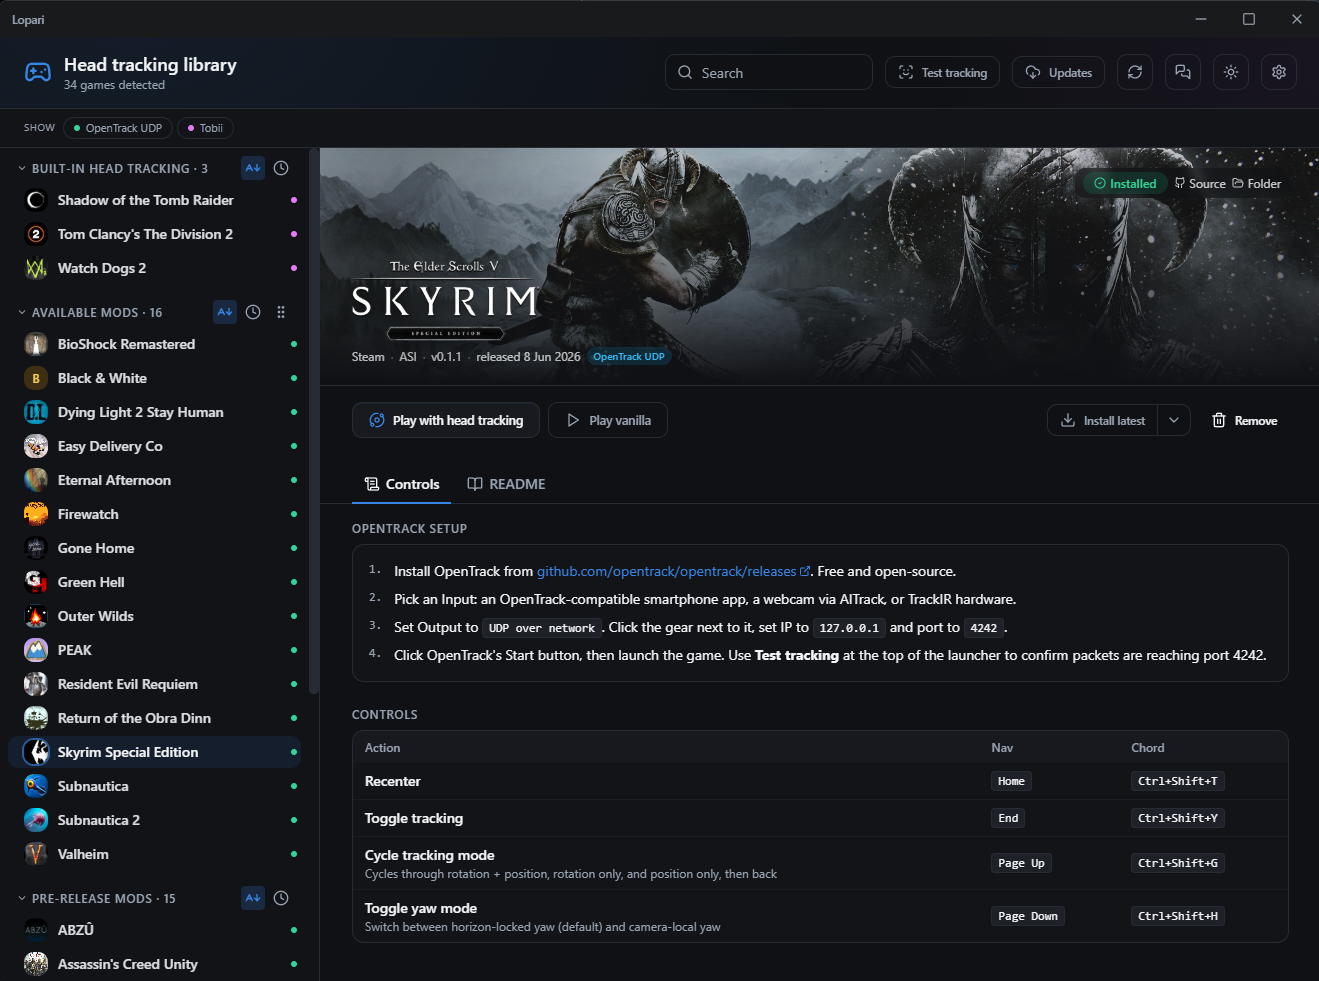
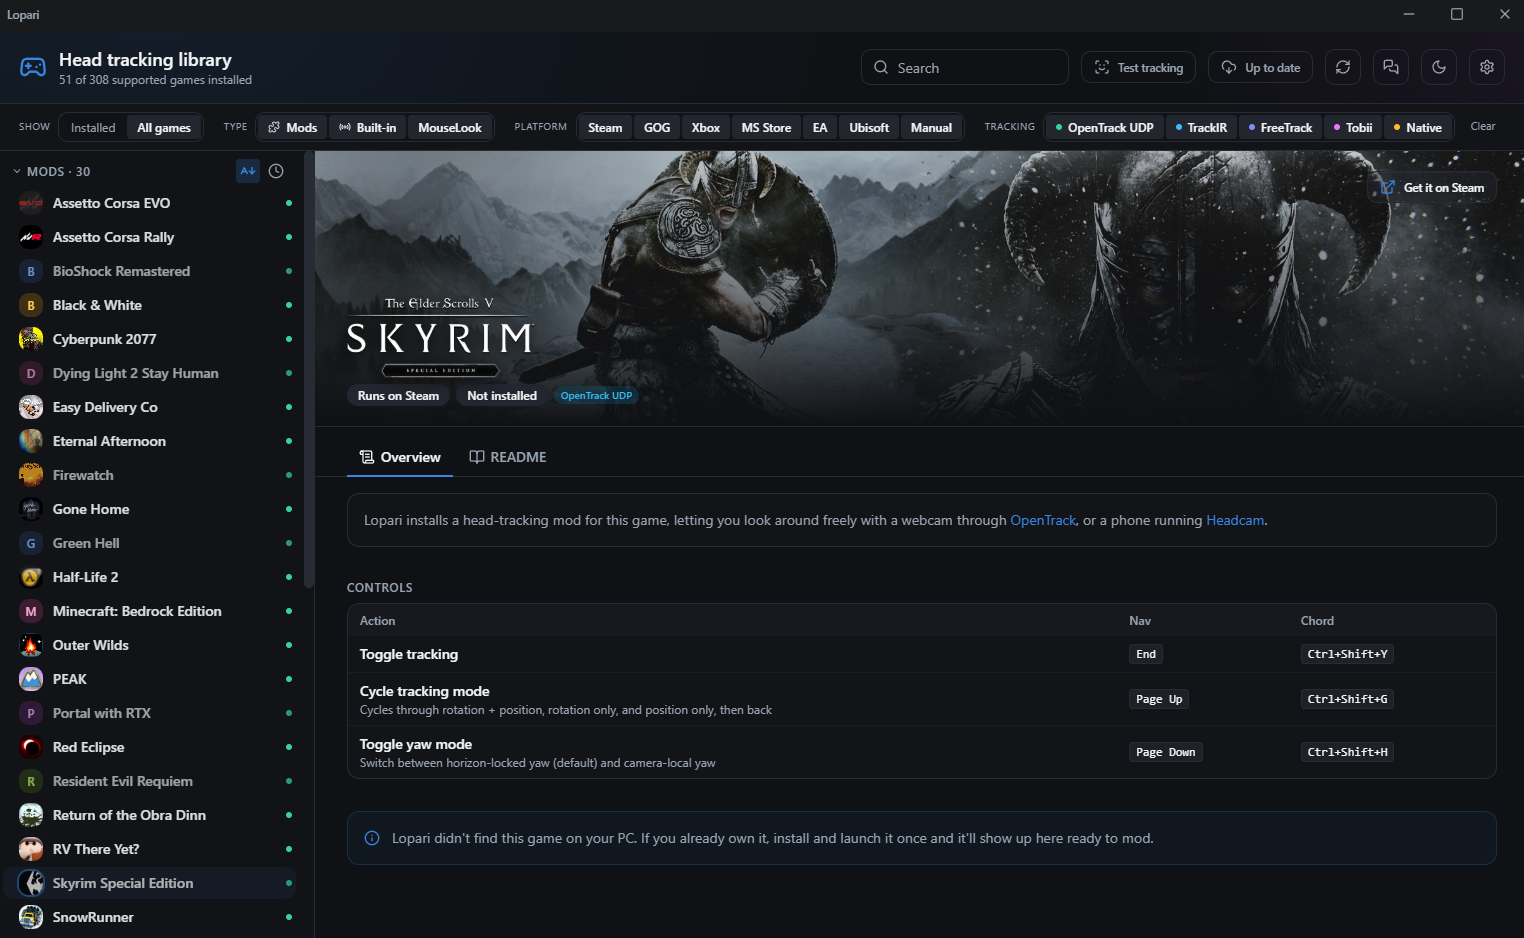
scripts: add a supported stores column, handle yanked releases, cover both with tests
generate-readme.mjs now renders verified_sources as a "Supported stores"
column and throws on an unrecognised source rather than emitting a blank
cell.

update-metadata.mjs stops clearing known_issues on promotion (authored
data, and promotion is not evidence anything was fixed) and handles a
published pin the repo no longer backs: drop it outright when the entry
is not stamped released, drop it and unstamp when a dev build remains,
and error out when neither, since unstamping there would hide the mod
from non-supporters with no path back.

Adds scripts/catalog.test.mjs, run by pixi run test, and refreshes the
hero screenshot to the 0.9.0 launcher.

diff --git a/index.html b/index.html
@@ -78,9 +78,9 @@
   <!-- HERO_DOWNLOAD:END -->
 
   <figure class="woven patch">
-    <img src="screenshot-hero.png" width="1319" height="981"
-         alt="The Lopari launcher: a sidebar of detected head-tracking games with Skyrim selected, showing its head-tracking controls and setup." />
-    <figcaption>Lopari 0.6.0</figcaption>
+    <img src="screenshot-hero.png" width="1524" height="938"
+         alt="The Lopari launcher: a sidebar of head-tracking games with Skyrim Special Edition selected, showing its head-tracking controls and keyboard shortcuts." />
+    <figcaption>Lopari 0.9.0</figcaption>
   </figure>
 </section>
 
